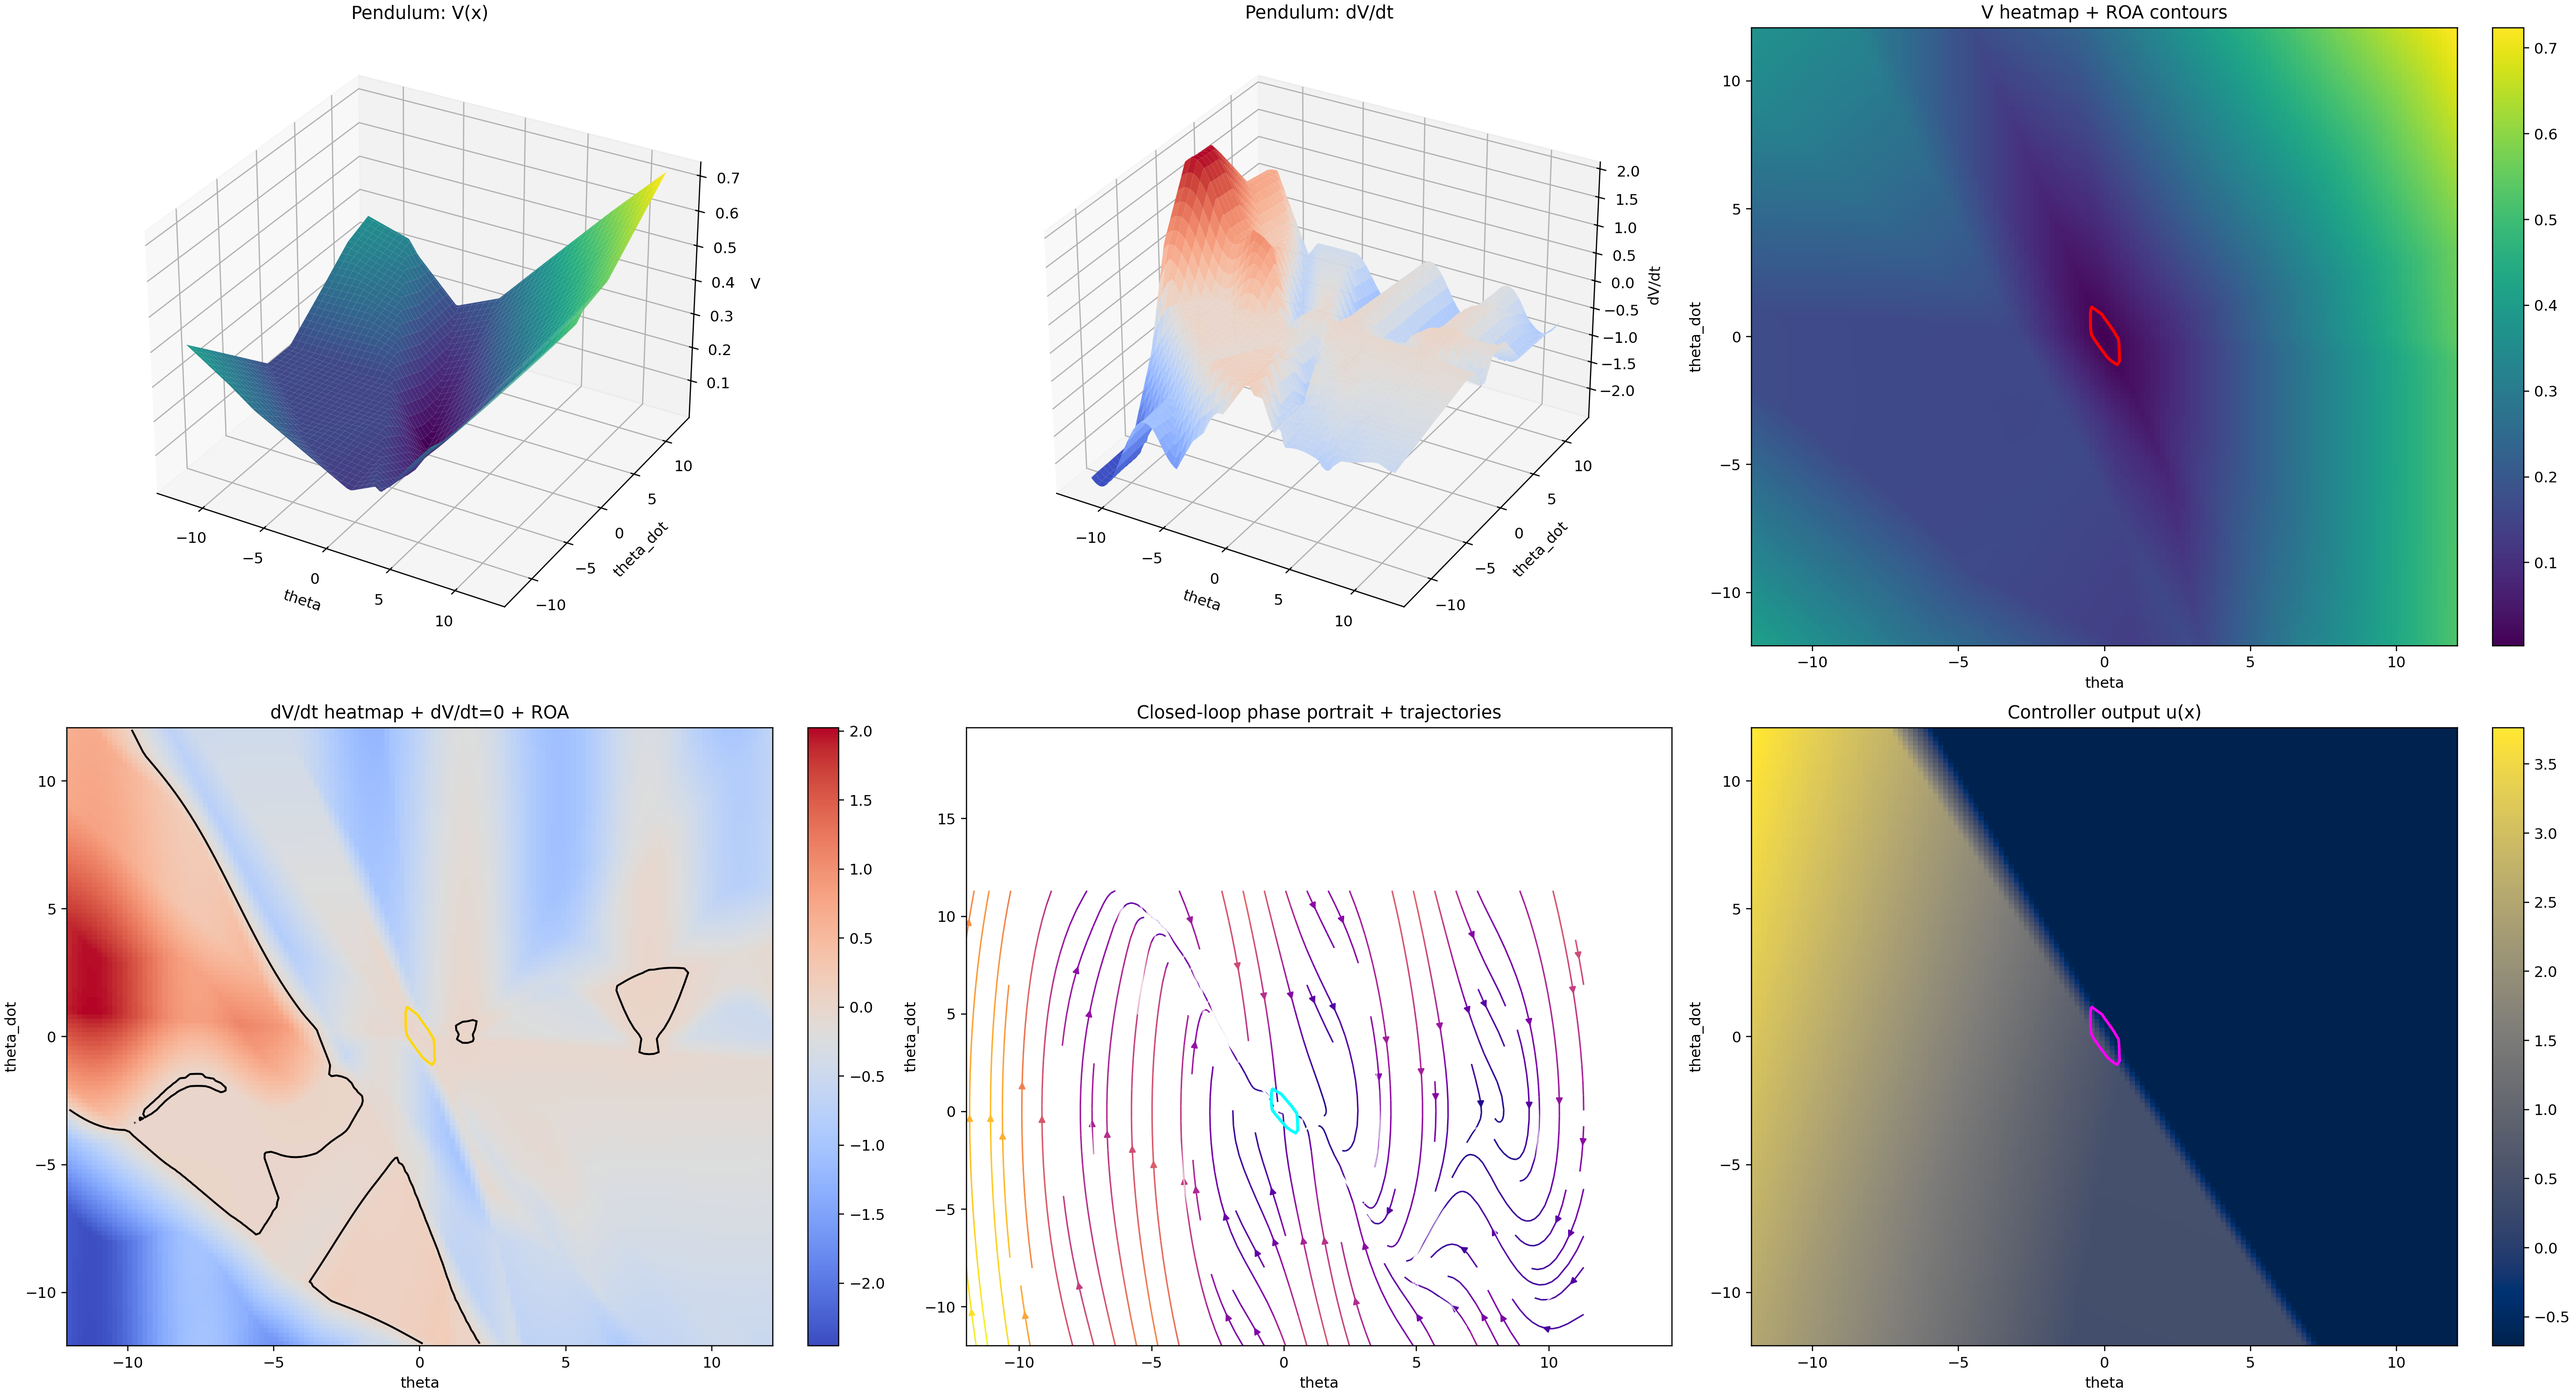
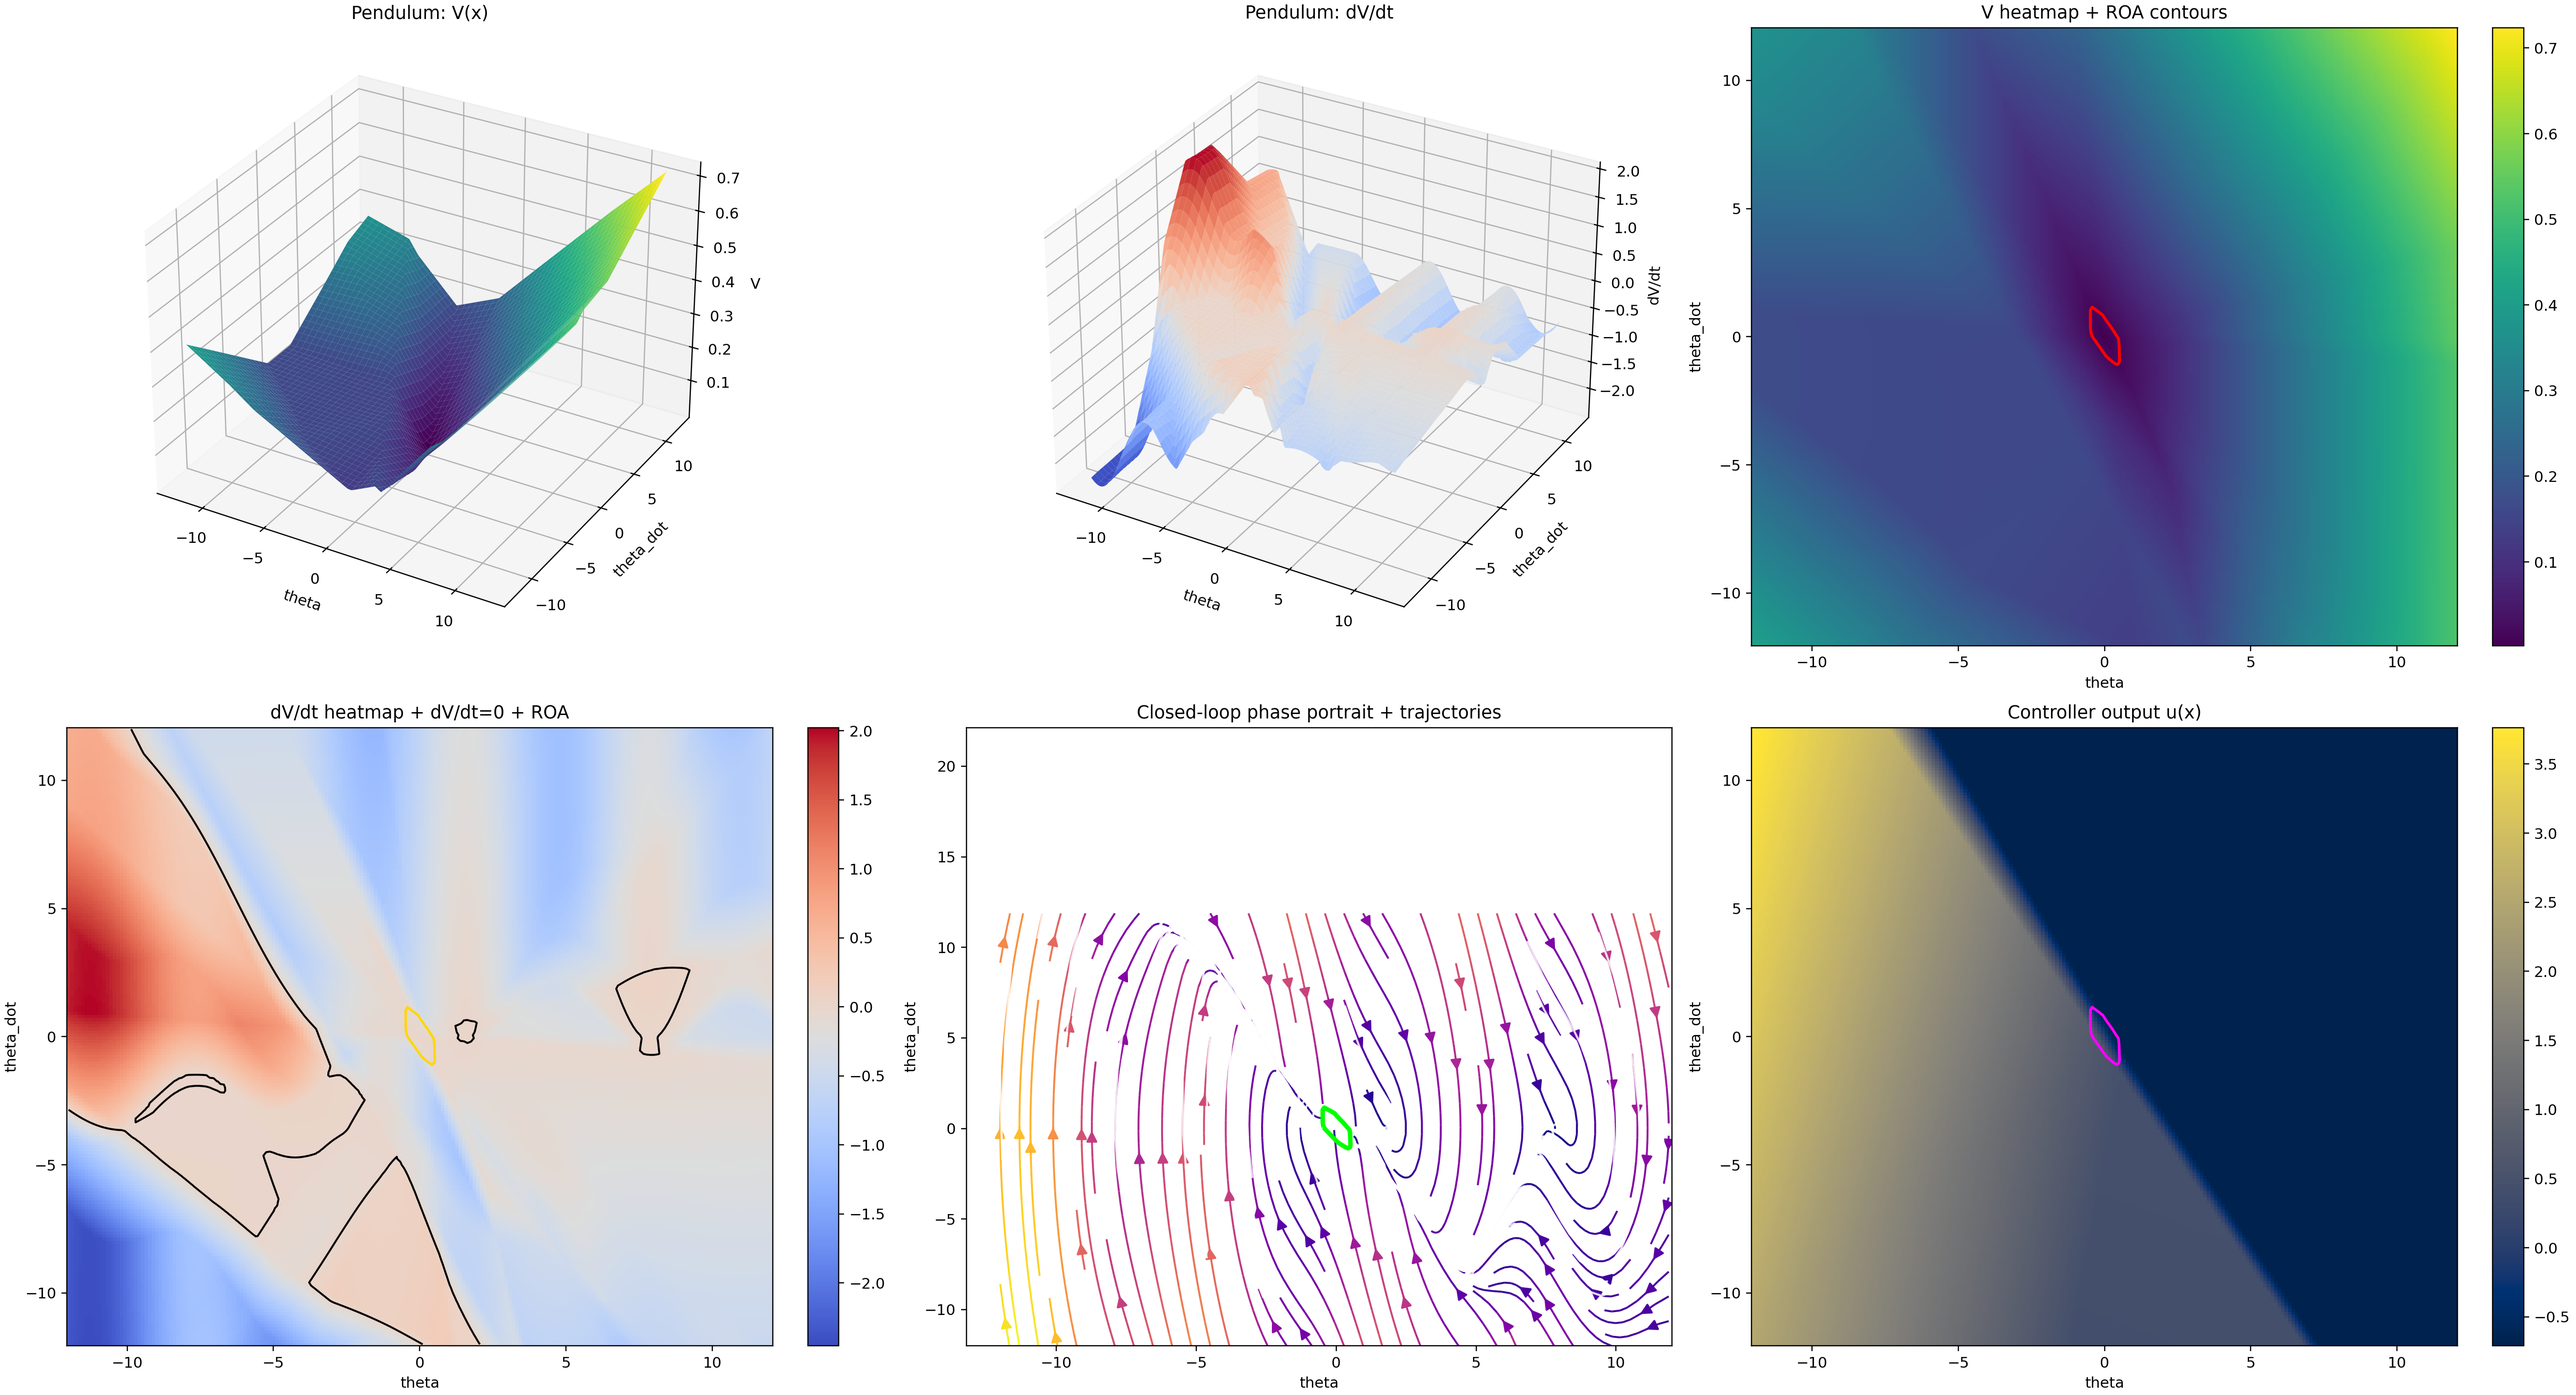
Refactor import statements for auto_LiRPA to handle ModuleNotFoundError and update visualization parameters for improved diagnostics

Changed region(s): [[0.375, 0.6535, 0.6562, 0.9647], [0.0625, 0.1556, 0.25, 0.3423], [0.4688, 0.1245, 0.5, 0.1556]]

diff --git a/neural_lyapunov_training/visualization.py b/neural_lyapunov_training/visualization.py
@@ -69,9 +69,9 @@ def plot_pendulum_diagnostics(
     upper_limit: torch.Tensor,
     out_dir: str | Path,
     rho_values: Iterable[float] | None = None,
-    grid_points: int = 140,
-    traj_count: int = 24,
-    traj_steps: int = 220,
+    grid_points: int = 200,
+    traj_count: int = 48,
+    traj_steps: int = 400,
     filename: str = "pendulum_diagnostics.png",
 ) -> Path:
     """Render one comprehensive pendulum diagnostics figure.
@@ -141,7 +141,7 @@ def plot_pendulum_diagnostics(
     fig.colorbar(im_dv, ax=ax, fraction=0.047)
 
     ax = axes["PHASE"]
-    step = max(1, grid_points // 28)
+    step = max(1, grid_points // 32)
     x0_1d = x0_ticks.detach().cpu().numpy()[::step]
     x1_1d = x1_ticks.detach().cpu().numpy()[::step]
     flow_0_stream = flow_0[::step, ::step].T
@@ -153,16 +153,18 @@ def plot_pendulum_diagnostics(
         flow_1_stream,
         color=np.hypot(flow_0_stream, flow_1_stream),
         cmap="plasma",
-        density=1.0,
-        linewidth=1.0,
-        arrowsize=0.9,
+        density=1.2,
+        linewidth=1.3,
+        arrowsize=1.5,
     )
+    
+    # Trajectories: sample from ROA boundary and interior for better diagnostics
     x0_init = (torch.rand((traj_count, 2), device=device) - 0.5) * 2.0 * upper_limit
     traj = _simulate_trajectories(derivative_lyaloss, x0_init, steps=traj_steps)
     for i in range(traj.shape[1]):
-        ax.plot(traj[:, i, 0], traj[:, i, 1], color="white", linewidth=0.9, alpha=0.7)
+        ax.plot(traj[:, i, 0], traj[:, i, 1], color="white", linewidth=1.4, alpha=0.85)
     for rho in rho_list:
-        ax.contour(x0_np, x1_np, V, levels=[rho], colors="cyan", linewidths=2.0)
+        ax.contour(x0_np, x1_np, V, levels=[rho], colors="lime", linewidths=3.0)
     ax.set_title("Closed-loop phase portrait + trajectories")
     ax.set_xlabel("theta")
     ax.set_ylabel("theta_dot")
@@ -189,9 +191,9 @@ def plot_cartpole_diagnostics(
     out_dir: str | Path,
     rho_values: Iterable[float] | None = None,
     phase_indices: Sequence[int] = (1, 3),
-    grid_points: int = 120,
-    traj_count: int = 20,
-    traj_steps: int = 220,
+    grid_points: int = 140,
+    traj_count: int = 32,
+    traj_steps: int = 350,
     filename: str = "cartpole_diagnostics.png",
 ) -> Path:
     """Render one comprehensive cartpole diagnostics figure on a 2D phase slice.
@@ -281,7 +283,7 @@ def plot_cartpole_diagnostics(
     fig.colorbar(im_dv, ax=ax, fraction=0.047)
 
     ax = axes["PHASE"]
-    step = max(1, grid_points // 28)
+    step = max(1, grid_points // 32)
     s0_1d = s0.detach().cpu().numpy()[::step]
     s1_1d = s1.detach().cpu().numpy()[::step]
     flow_0_stream = flow_0[::step, ::step].T
@@ -293,9 +295,9 @@ def plot_cartpole_diagnostics(
         flow_1_stream,
         color=np.hypot(flow_0_stream, flow_1_stream),
         cmap="plasma",
-        density=1.0,
-        linewidth=1.0,
-        arrowsize=0.9,
+        density=1.2,
+        linewidth=1.3,
+        arrowsize=1.5,
     )
 
     x0 = torch.zeros((traj_count, nx), device=device, dtype=lower_limit.dtype)
@@ -303,9 +305,9 @@ def plot_cartpole_diagnostics(
     x0[:, idx1] = (torch.rand((traj_count,), device=device) - 0.5) * 2.0 * upper_limit[idx1]
     traj = _simulate_trajectories(derivative_lyaloss, x0, steps=traj_steps)
     for i in range(traj.shape[1]):
-        ax.plot(traj[:, i, idx0], traj[:, i, idx1], color="white", linewidth=0.9, alpha=0.7)
+        ax.plot(traj[:, i, idx0], traj[:, i, idx1], color="white", linewidth=1.4, alpha=0.85)
     for rho in rho_list:
-        ax.contour(s0_np, s1_np, V_2d, levels=[rho], colors="cyan", linewidths=2.0)
+        ax.contour(s0_np, s1_np, V_2d, levels=[rho], colors="lime", linewidths=3.0)
     ax.set_title("Closed-loop phase portrait + trajectories")
     ax.set_xlabel(label0)
     ax.set_ylabel(label1)

diff --git a/neural_lyapunov_training/try_verifier.py b/neural_lyapunov_training/try_verifier.py
@@ -8,15 +8,21 @@ import torch
 import torch.nn as nn
 from auto_LiRPA import BoundedModule, BoundedTensor
 from auto_LiRPA.perturbations import *
-from auto_LiRPA.bound_ops import (
-    BoundMul,
-    BoundTanh,
-    BoundSigmoid,
-    BoundSin,
-    BoundCos,
-    BoundTan,
-    BoundActivation,
-)
+try:
+    from auto_LiRPA.bound_ops import (
+        BoundMul,
+        BoundTanh,
+        BoundSigmoid,
+        BoundSin,
+        BoundCos,
+        BoundTan,
+        BoundActivation,
+    )
+except ModuleNotFoundError:
+    from auto_LiRPA.operators.bivariate import BoundMul
+    from auto_LiRPA.operators.s_shaped import BoundTanh, BoundSigmoid, BoundTan
+    from auto_LiRPA.operators.trigonometric import BoundSin, BoundCos
+    from auto_LiRPA.operators.activation_base import BoundActivation
 import matplotlib.pyplot as plt
 from tqdm import trange
 from neural_lyapunov_training.models import (

diff --git a/neural_lyapunov_training/optimize_graph.py b/neural_lyapunov_training/optimize_graph.py
@@ -1,13 +1,21 @@
 import torch
 
-from auto_LiRPA.bound_ops import (
-    BoundActivation,
-    BoundMatMul,
-    BoundReduceSum,
-    BoundMul,
-    BoundSqr,
-    BoundParams,
-)
+try:
+    from auto_LiRPA.bound_ops import (
+        BoundActivation,
+        BoundMatMul,
+        BoundReduceSum,
+        BoundMul,
+        BoundSqr,
+        BoundParams,
+    )
+except ModuleNotFoundError:
+    from auto_LiRPA.operators.activation_base import BoundActivation
+    from auto_LiRPA.operators.linear import BoundMatMul
+    from auto_LiRPA.operators.reduce import BoundReduceSum
+    from auto_LiRPA.operators.bivariate import BoundMul
+    from auto_LiRPA.operators.activations import BoundSqr
+    from auto_LiRPA.operators.leaf import BoundParams
 
 
 def optimize_graph(model, version="v1"):
